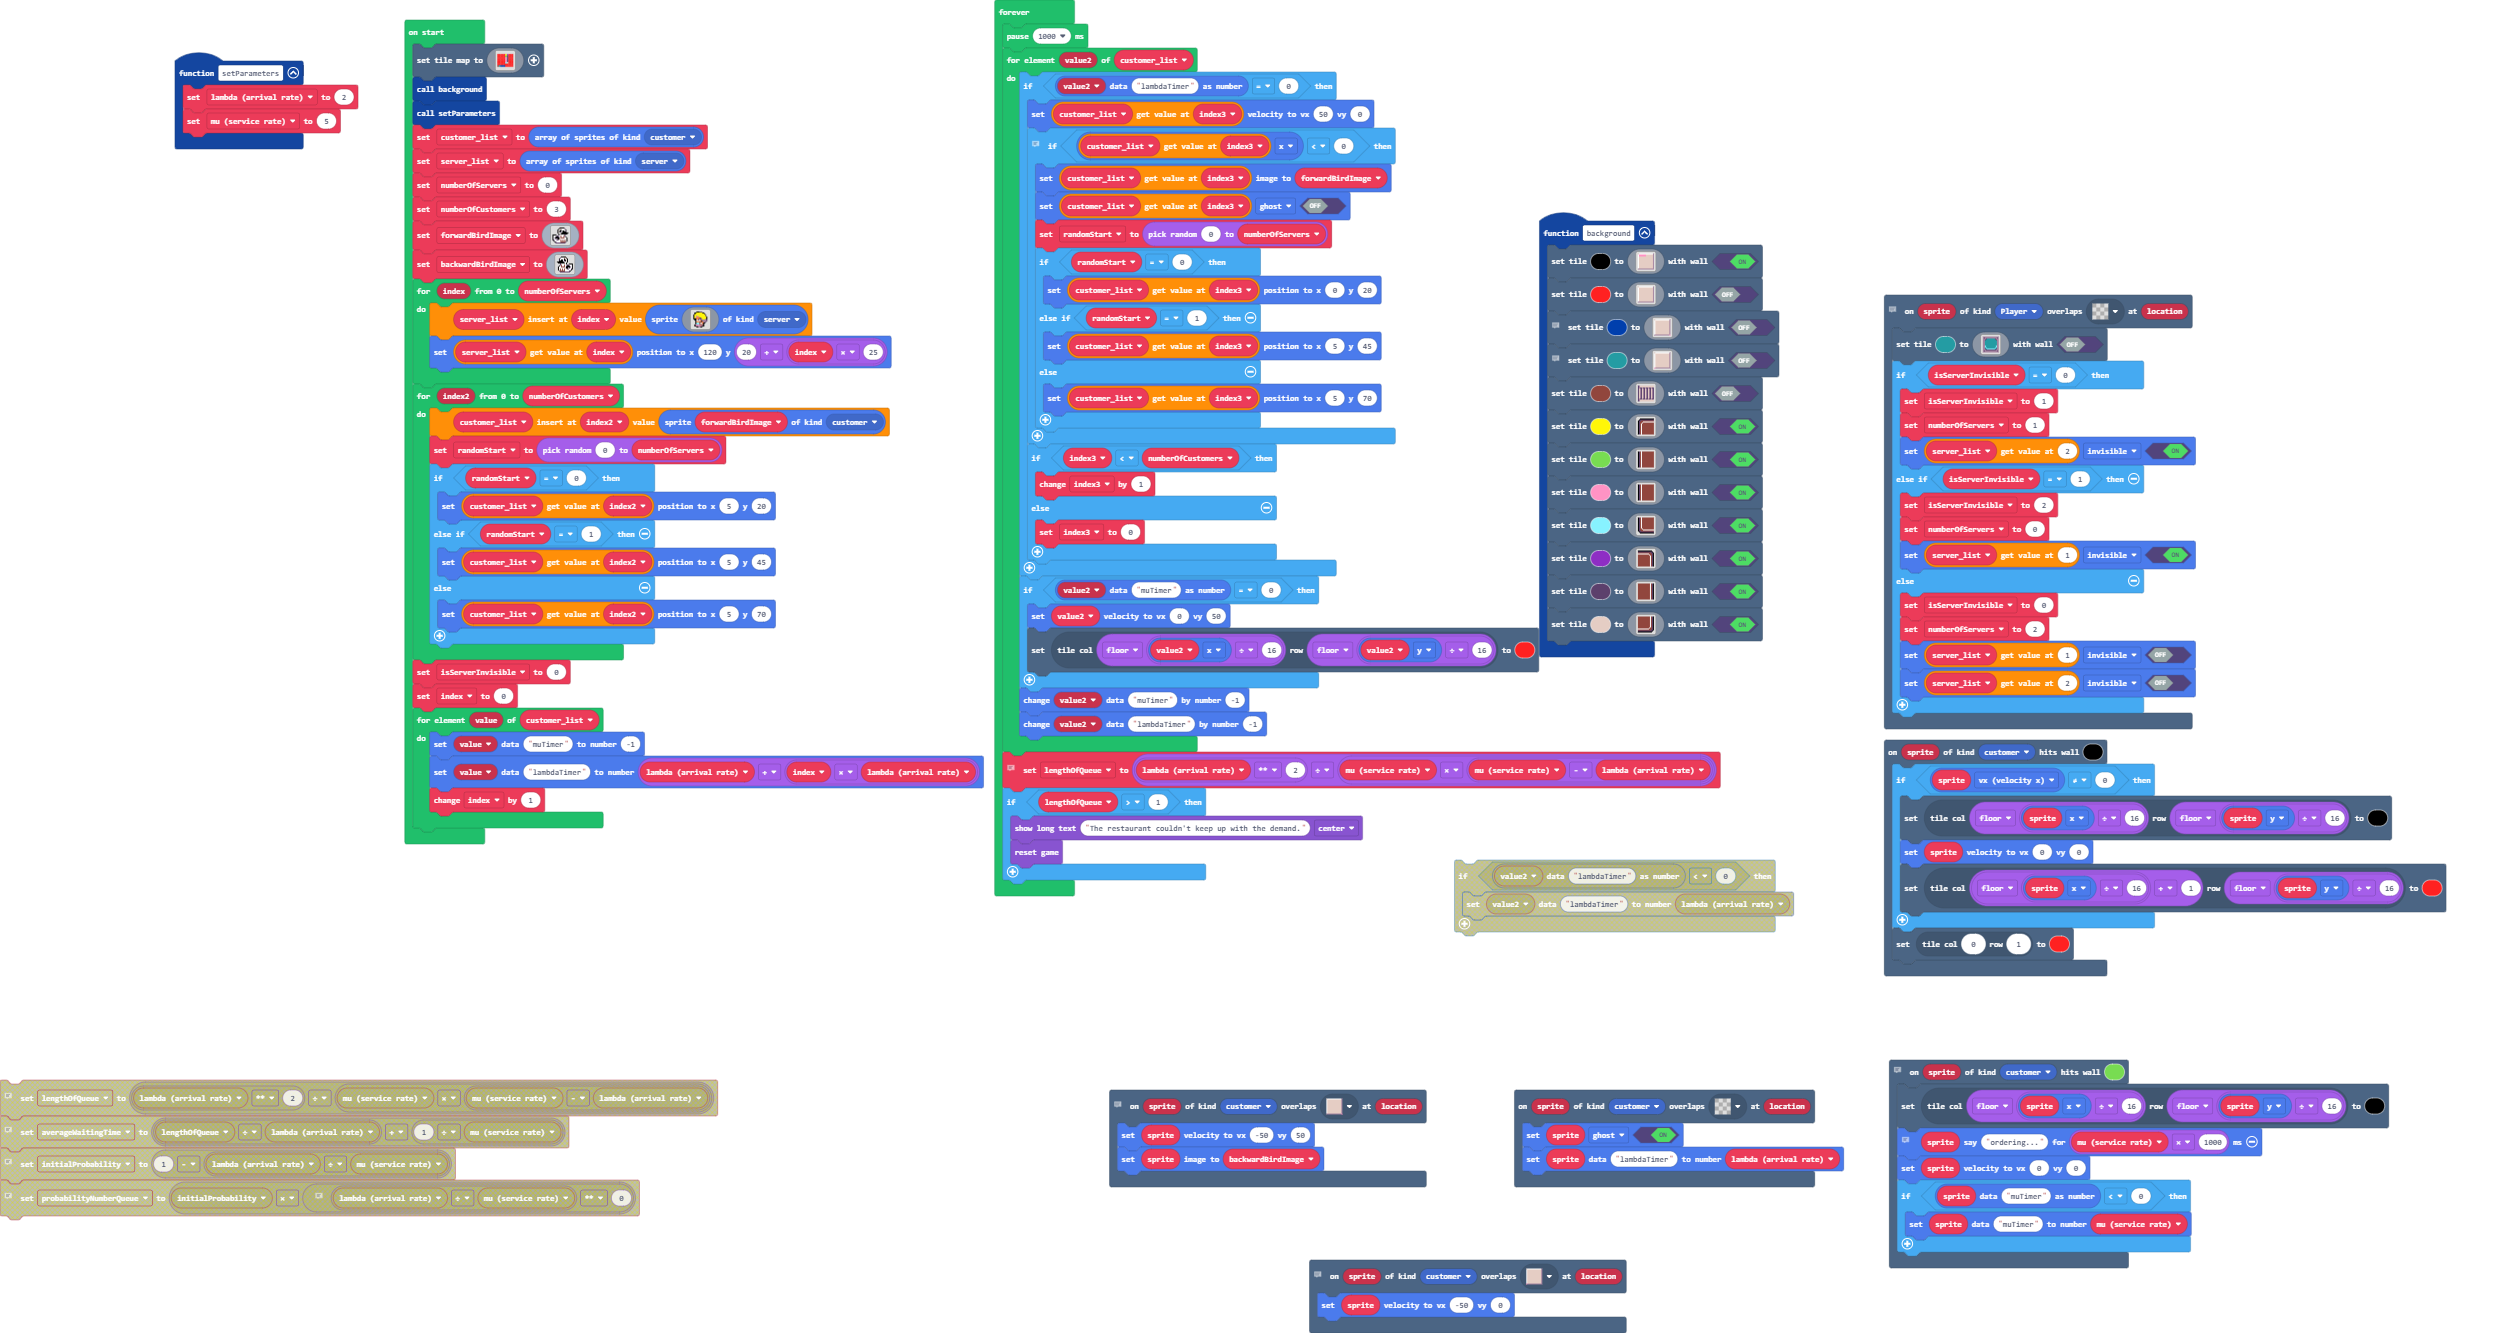
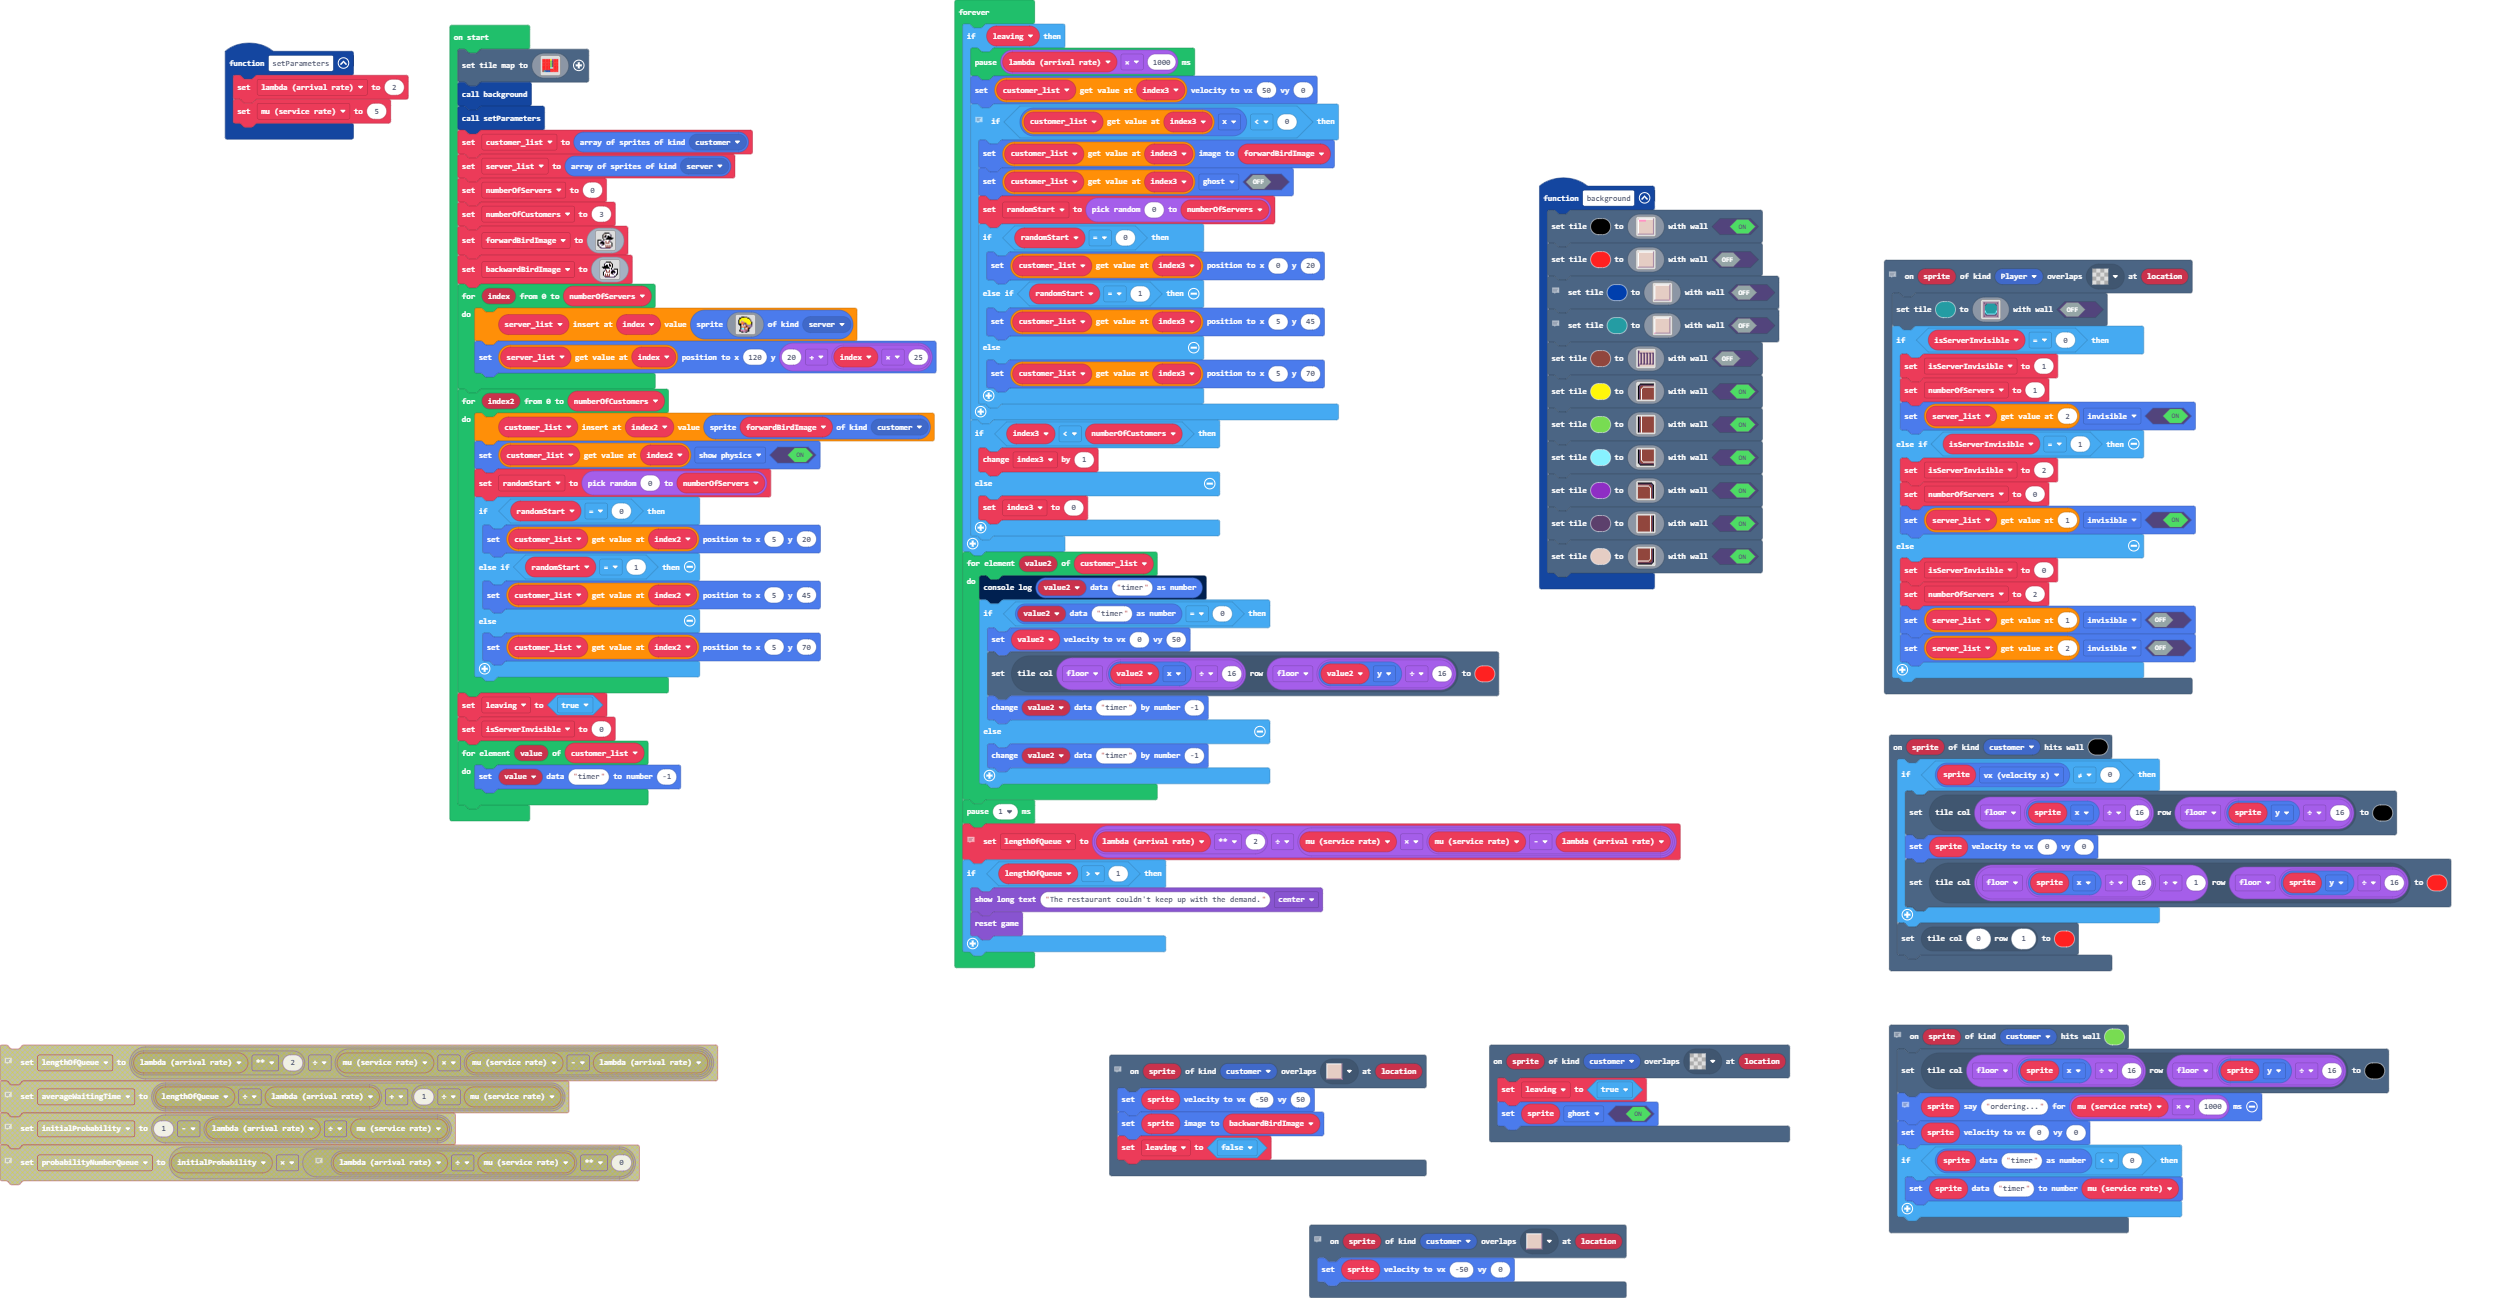
Revert "Update main.blocks, main.ts"
This reverts commit 794c20bd9d970edc499fcc9ab87fbcd76495baab.

Changed region(s): [[0.0624, 0.0, 0.7182, 0.7704], [0.4371, 0.1849, 0.9992, 1.0], [0.0, 0.8012, 0.3122, 0.9245]]

diff --git a/main.ts b/main.ts
@@ -173,24 +173,6 @@ function background () {
         f c e 1 e e e e e e e e e e e e 
         f c e 1 e e e e e e e e e e e e 
         `, true)
-    scene.setTile(3, img`
-        f c e 1 e e e e e e e e e e e e 
-        f c e 1 e e e e e e e e e e e e 
-        f c e 1 e e e e e e e e e e e e 
-        f c e 1 e e e e e e e e e e e e 
-        f c e 1 e e e e e e e e e e e e 
-        f c e 1 e e e e e e e e e e e e 
-        f c e 1 e e e e e e e e e e e e 
-        f c e 1 e e e e e e e e e e e e 
-        f c e 1 e e e e e e e e e e e e 
-        f c e 1 e e e e e e e e e e e e 
-        f c e 1 e e e e e e e e e e e e 
-        f c e 1 e e e e e e e e e e e e 
-        f c e 1 e e e e e e e e e e e e 
-        f c e 1 e e e e e e e e e e e e 
-        f c e 1 e e e e e e e e e e e e 
-        f c e 1 e e e e e e e e e e e e 
-        `, true)
     scene.setTile(9, img`
         f c e 1 e e e e e e e e e e e e 
         f c e 1 e e e e e e e e e e e e 
@@ -276,10 +258,11 @@ scene.onHitTile(SpriteKind.customer, 15, function (sprite) {
 scene.onOverlapTile(SpriteKind.customer, myTiles.tile14, function (sprite, location) {
     sprite.setVelocity(-50, 50)
     sprite.setImage(backwardBirdImage)
+    leaving = false
 })
 scene.onOverlapTile(SpriteKind.customer, sprites.dungeon.stairEast, function (sprite, location) {
+    leaving = true
     sprite.setFlag(SpriteFlag.Ghost, true)
-    sprites.setDataNumber(sprite, "lambdaTimer", lambda_arrival_rate)
 })
 // when customer arrives at the counter
 scene.onHitTile(SpriteKind.customer, 7, function (sprite) {
@@ -287,8 +270,8 @@ scene.onHitTile(SpriteKind.customer, 7, function (sprite) {
     // need to pause for a few seconds
     sprite.say("ordering...", mu_service_rate * 1000)
     sprite.setVelocity(0, 0)
-    if (sprites.readDataNumber(sprite, "muTimer") < 0) {
-        sprites.setDataNumber(sprite, "muTimer", mu_service_rate)
+    if (sprites.readDataNumber(sprite, "timer") < 0) {
+        sprites.setDataNumber(sprite, "timer", mu_service_rate)
     }
 })
 // customer finishes ordering and walks out
@@ -300,6 +283,7 @@ let index3 = 0
 let mu_service_rate = 0
 let lambda_arrival_rate = 0
 let isServerInvisible = 0
+let leaving = false
 let randomStart = 0
 let backwardBirdImage: Image = null
 let numberOfServers = 0
@@ -307,9 +291,9 @@ let server_list: Sprite[] = []
 scene.setTileMap(img`
     2 2 2 2 2 5 a 2 2 2 
     2 2 2 2 2 7 c 2 2 2 
-    2 2 2 2 2 3 c 2 2 2 
-    2 2 2 2 2 3 c 2 2 2 
-    2 2 2 2 2 3 c 2 2 2 
+    2 2 2 2 2 7 c 2 2 2 
+    2 2 2 2 2 7 c 2 2 2 
+    2 2 2 2 2 7 c 2 2 2 
     2 2 2 2 2 9 d 2 2 2 
     2 2 2 2 2 2 2 2 2 2 
     e 6 8 8 8 2 2 2 2 2 
@@ -379,6 +363,7 @@ for (let index = 0; index <= numberOfServers; index++) {
 }
 for (let index2 = 0; index2 <= numberOfCustomers; index2++) {
     customer_list.insertAt(index2, sprites.create(forwardBirdImage, SpriteKind.customer))
+    customer_list[index2].setFlag(SpriteFlag.ShowPhysics, true)
     randomStart = randint(0, numberOfServers)
     if (randomStart == 0) {
         customer_list[index2].setPosition(5, 20)
@@ -388,44 +373,45 @@ for (let index2 = 0; index2 <= numberOfCustomers; index2++) {
         customer_list[index2].setPosition(5, 70)
     }
 }
+leaving = true
 isServerInvisible = 0
-let index = 0
 for (let value of customer_list) {
-    sprites.setDataNumber(value, "muTimer", -1)
-    sprites.setDataNumber(value, "lambdaTimer", lambda_arrival_rate + index * lambda_arrival_rate)
-    index += 1
+    sprites.setDataNumber(value, "timer", -1)
 }
 forever(function () {
-    pause(1000)
-    for (let value2 of customer_list) {
-        if (sprites.readDataNumber(value2, "lambdaTimer") == 0) {
-            customer_list[index3].setVelocity(50, 0)
-            // respawns customer after they leave
-            if (customer_list[index3].x < 0) {
-                customer_list[index3].setImage(forwardBirdImage)
-                customer_list[index3].setFlag(SpriteFlag.Ghost, false)
-                randomStart = randint(0, numberOfServers)
-                if (randomStart == 0) {
-                    customer_list[index3].setPosition(0, 20)
-                } else if (randomStart == 1) {
-                    customer_list[index3].setPosition(5, 45)
-                } else {
-                    customer_list[index3].setPosition(5, 70)
-                }
-            }
-            if (index3 < numberOfCustomers) {
-                index3 += 1
+    if (leaving) {
+        pause(lambda_arrival_rate * 1000)
+        customer_list[index3].setVelocity(50, 0)
+        // respawns customer after they leave
+        if (customer_list[index3].x < 0) {
+            customer_list[index3].setImage(forwardBirdImage)
+            customer_list[index3].setFlag(SpriteFlag.Ghost, false)
+            randomStart = randint(0, numberOfServers)
+            if (randomStart == 0) {
+                customer_list[index3].setPosition(0, 20)
+            } else if (randomStart == 1) {
+                customer_list[index3].setPosition(5, 45)
             } else {
-                index3 = 0
+                customer_list[index3].setPosition(5, 70)
             }
         }
-        if (sprites.readDataNumber(value2, "muTimer") == 0) {
+        if (index3 < numberOfCustomers) {
+            index3 += 1
+        } else {
+            index3 = 0
+        }
+    }
+    for (let value2 of customer_list) {
+        console.log(sprites.readDataNumber(value2, "timer"))
+        if (sprites.readDataNumber(value2, "timer") == 0) {
             value2.setVelocity(0, 50)
             scene.setTileAt(scene.getTile(Math.floor(value2.x / 16), Math.floor(value2.y / 16)), 2)
+            sprites.changeDataNumberBy(value2, "timer", -1)
+        } else {
+            sprites.changeDataNumberBy(value2, "timer", -1)
         }
-        sprites.changeDataNumberBy(value2, "muTimer", -1)
-        sprites.changeDataNumberBy(value2, "lambdaTimer", -1)
     }
+    pause(1)
     // slide 12
     lengthOfQueue = lambda_arrival_rate ** 2 / (mu_service_rate * (mu_service_rate - lambda_arrival_rate))
     if (lengthOfQueue > 1) {
